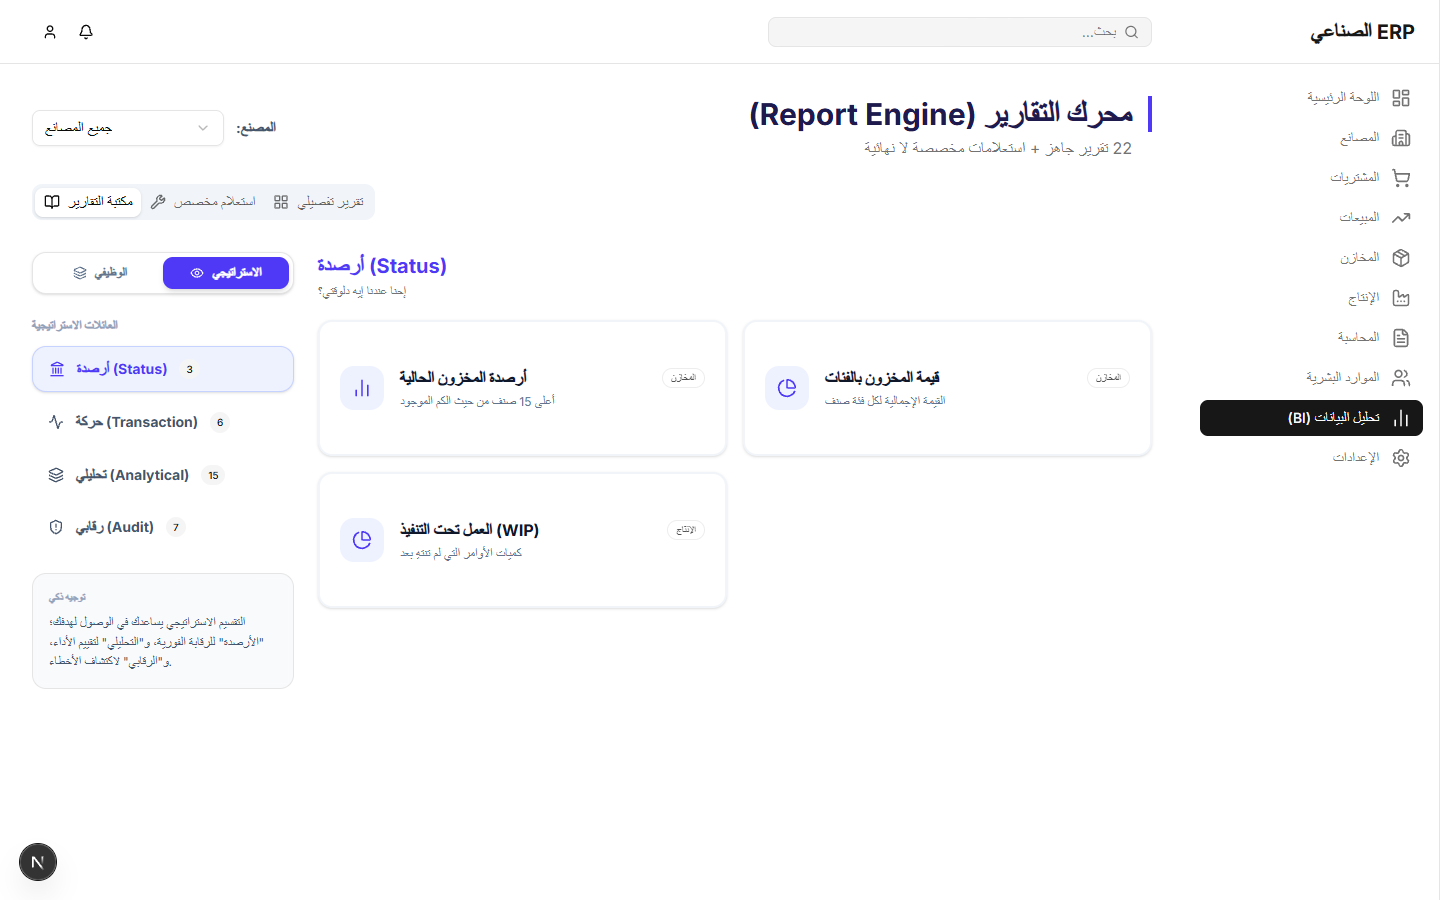
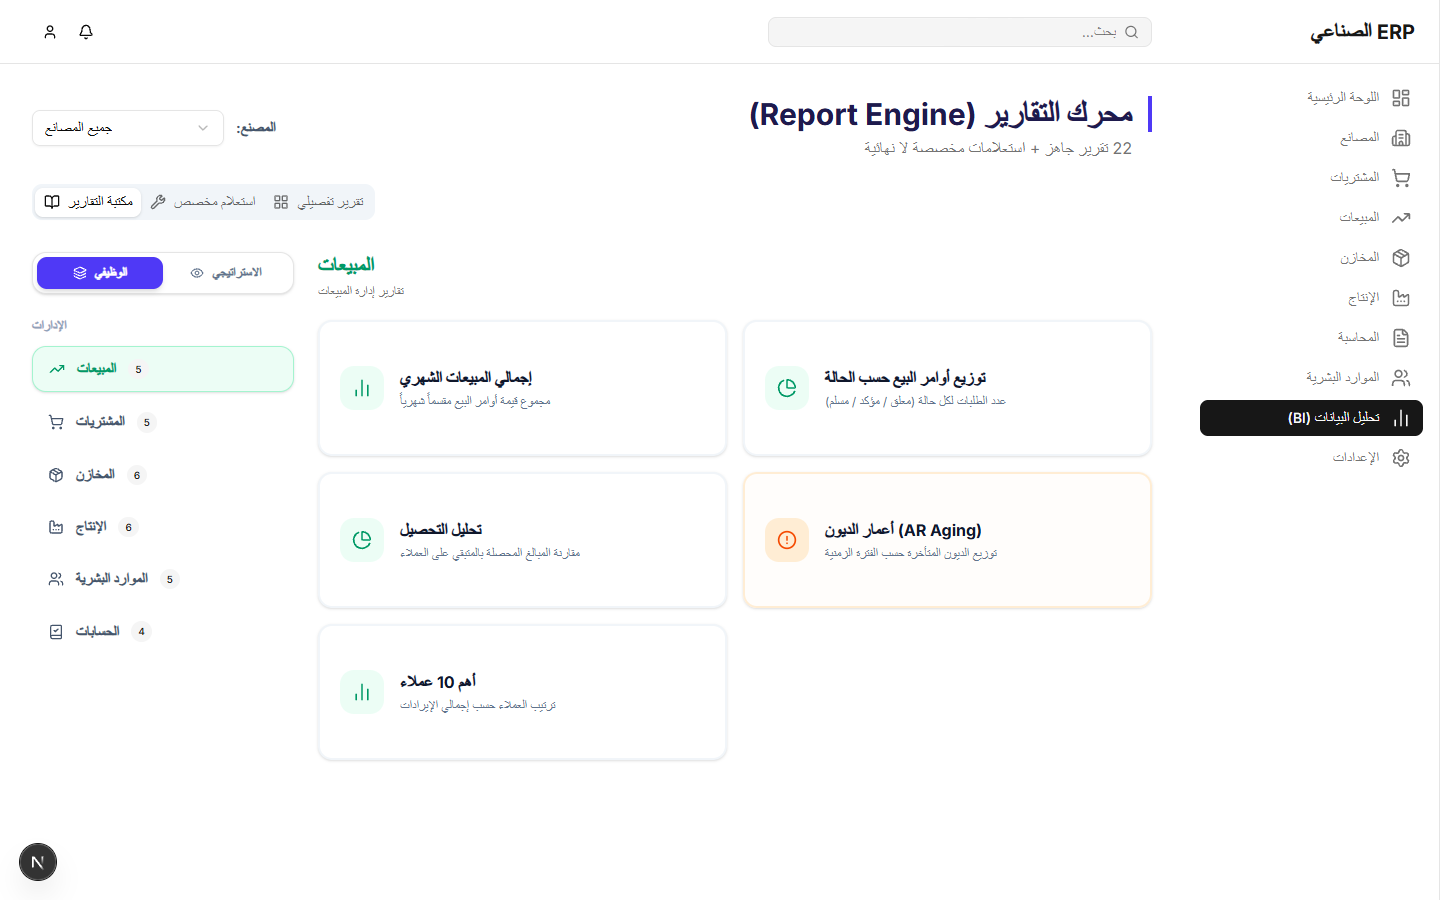
fix: real BI chart modes captured (Bar, Line, Pie, Table)

diff --git a/README.md b/README.md
@@ -46,13 +46,13 @@
 *The system supports multiple visualization modes and report generation.*
 
 **1. Multi-Perspective Analytics (4 Chart Types):**
-| Operational (Bar) | Growth Trends (Area) |
+| Operational (Bar) | Trends (Line) |
 | :---: | :---: |
-| ![Bar](./screenshots/bi_chart_bar.png) | ![Area](./screenshots/bi_chart_area.png) |
+| ![Bar](./screenshots/bi_chart_bar.png) | ![Line](./screenshots/bi_chart_line.png) |
 
-| Strategic (Line) | Composition (Donut) |
+| Composition (Pie) | Data Grid (Table) |
 | :---: | :---: |
-| ![Line](./screenshots/bi_chart_line.png) | ![Donut](./screenshots/bi_chart_donut.png) |
+| ![Pie](./screenshots/bi_chart_pie.png) | ![Table](./screenshots/bi_chart_table.png) |
 
 **2. Custom Detailed Report Builder:**
 *Select columns, filter by date, and export to PDF/Excel.*